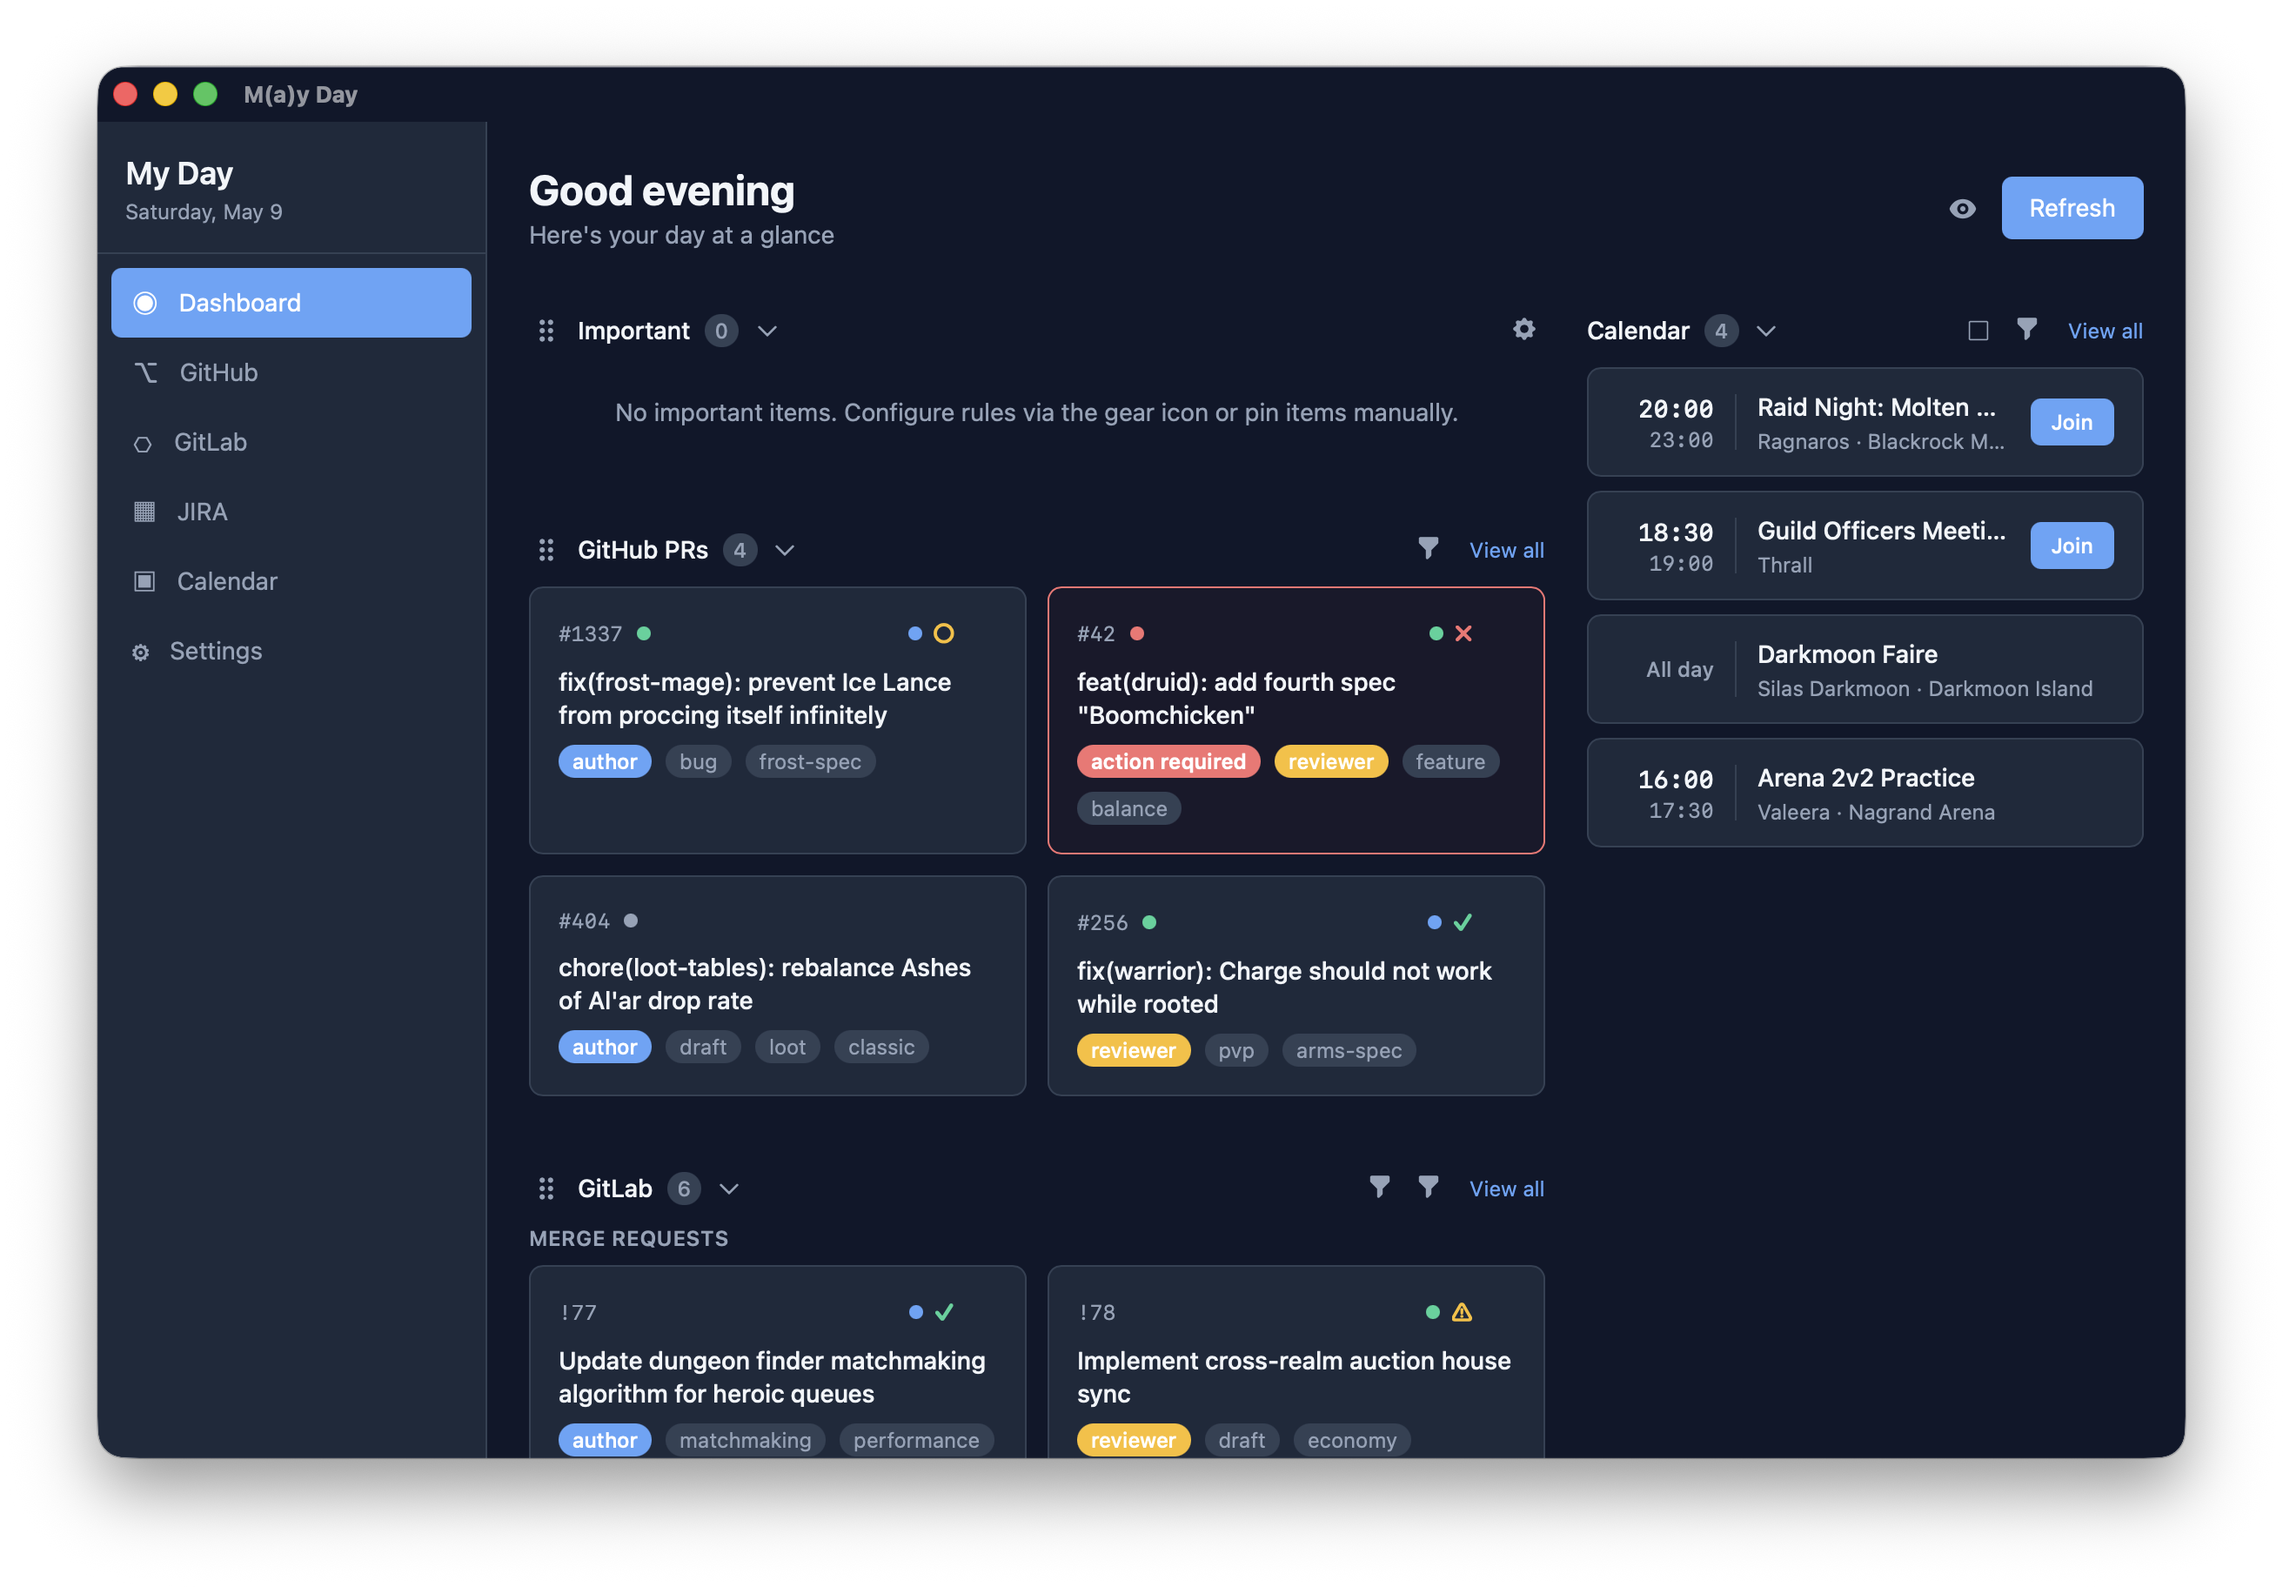
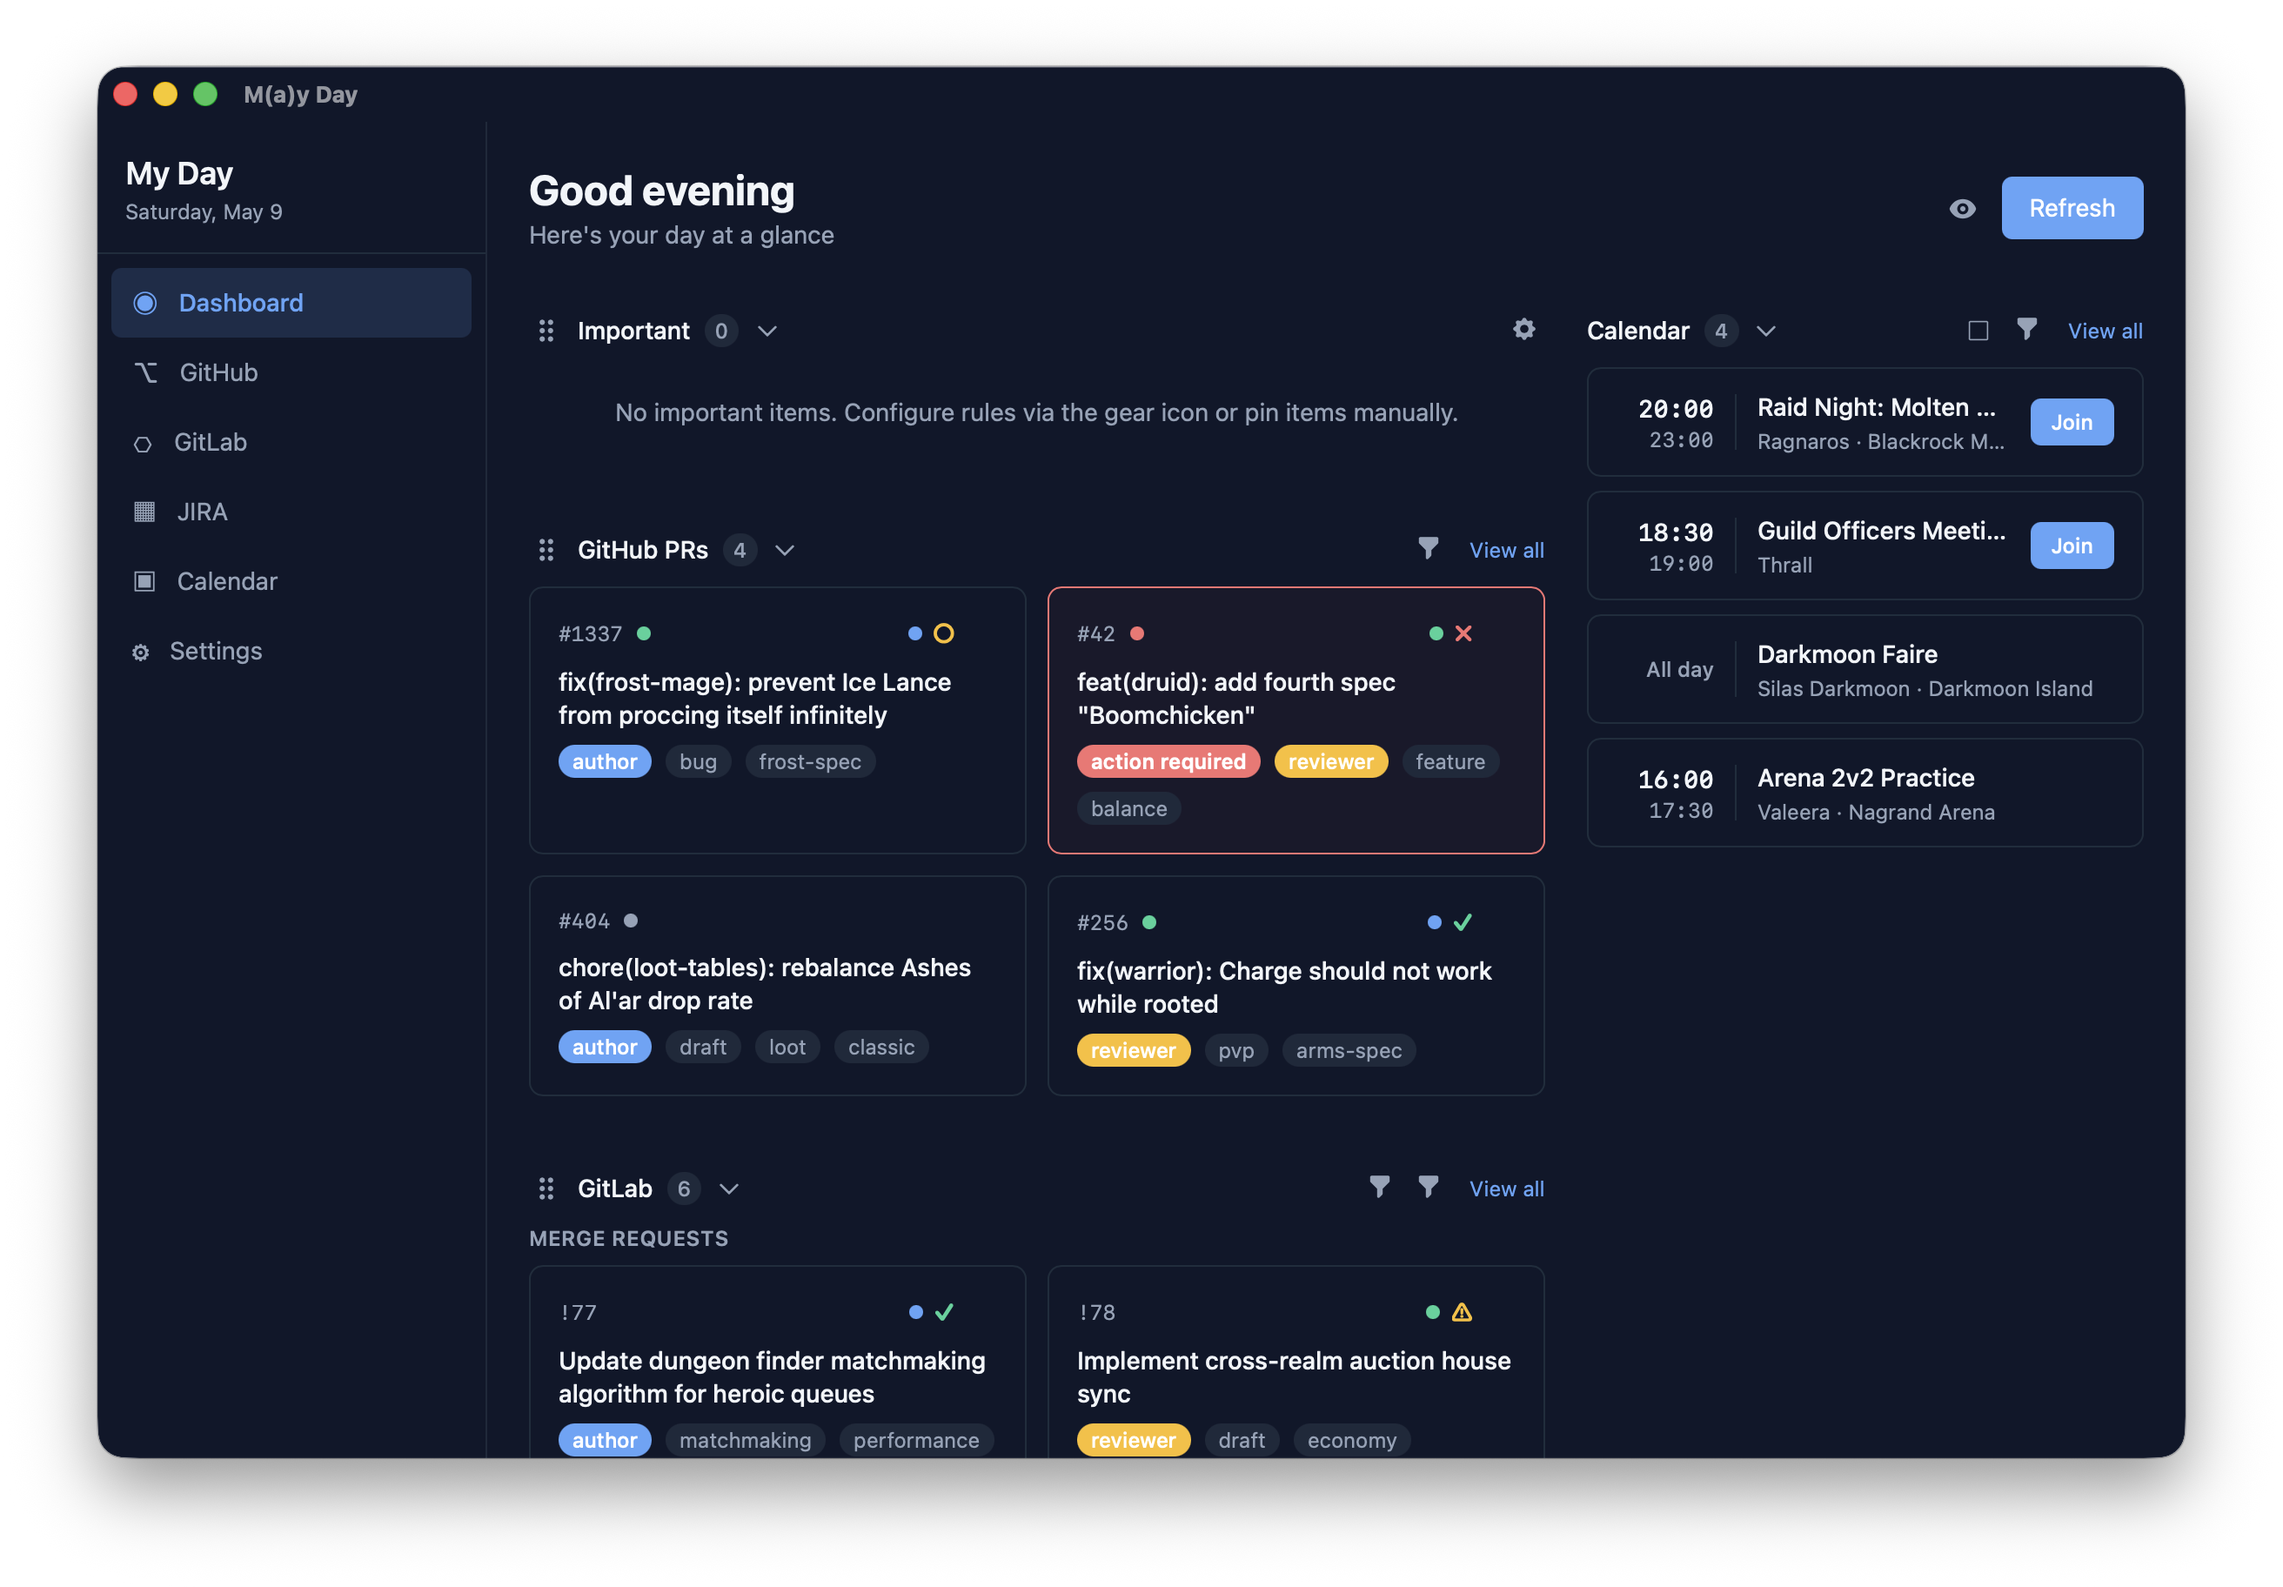
update darktheme & add for fun theme
- ensure dark theme also sets the title bar
- update styling for dark theme to have navbar not look
  as out of place.
- add win98 style for fun as an experiment

diff --git a/apps/web/src/assets/main.css b/apps/web/src/assets/main.css
@@ -16,14 +16,15 @@
   --color-success: #10b981;
   --color-warning: #f59e0b;
   --color-error: #ef4444;
+  --color-sidebar-border: #e2e8f0;
 }
 
 /* Dark theme */
 [data-theme="dark"] {
   --color-background: #0f172a;
-  --color-surface: #1e293b;
-  --color-surface-hover: #334155;
-  --color-border: #334155;
+  --color-surface: #0f172a;
+  --color-surface-hover: #1e293b;
+  --color-border: #1e2d3d;
   --color-text: #f1f5f9;
   --color-text-muted: #94a3b8;
   --color-primary: #60a5fa;
@@ -31,15 +32,16 @@
   --color-success: #34d399;
   --color-warning: #fbbf24;
   --color-error: #f87171;
+  --color-sidebar-border: #1e293b;
 }
 
 /* System theme: follow OS preference */
 @media (prefers-color-scheme: dark) {
   [data-theme="system"] {
     --color-background: #0f172a;
-    --color-surface: #1e293b;
-    --color-surface-hover: #334155;
-    --color-border: #334155;
+    --color-surface: #0f172a;
+    --color-surface-hover: #1e293b;
+    --color-border: #1e2d3d;
     --color-text: #f1f5f9;
     --color-text-muted: #94a3b8;
     --color-primary: #60a5fa;
@@ -47,6 +49,7 @@
     --color-success: #34d399;
     --color-warning: #fbbf24;
     --color-error: #f87171;
+    --color-sidebar-border: #1e293b;
   }
 }
 
@@ -61,4 +64,106 @@ body {
   font-family: -apple-system, BlinkMacSystemFont, 'Segoe UI', Roboto,
     'Helvetica Neue', Arial, sans-serif;
   transition: background-color 0.2s, color 0.2s;
+}
+
+/* ─── Windows 98 Theme ─────────────────────────────────────────────────────── */
+
+[data-theme="win98"] {
+  --color-background: #c0c0c0;
+  --color-surface: #c0c0c0;
+  --color-surface-hover: #d4d0c8;
+  --color-border: #808080;
+  --color-text: #000000;
+  --color-text-muted: #404040;
+  --color-primary: #000080;
+  --color-primary-hover: #0000a8;
+  --color-success: #008000;
+  --color-warning: #808000;
+  --color-error: #ff0000;
+  --color-sidebar-border: #808080;
+
+  /* Win98-specific tokens */
+  --win98-highlight: #ffffff;
+  --win98-shadow: #808080;
+  --win98-dark-shadow: #404040;
+  --win98-face: #c0c0c0;
+}
+
+[data-theme="win98"] body {
+  font-family: 'Pixelated MS Sans Serif', 'MS Sans Serif', 'Tahoma', 'Arial', sans-serif;
+  font-size: 13px;
+  -webkit-font-smoothing: none;
+}
+
+/* Classic raised 3D panel look for surfaces */
+[data-theme="win98"] section,
+[data-theme="win98"] aside {
+  border: none !important;
+  border-radius: 0 !important;
+  box-shadow:
+    inset -1px -1px 0 var(--win98-dark-shadow),
+    inset 1px 1px 0 var(--win98-highlight),
+    inset -2px -2px 0 var(--win98-shadow),
+    inset 2px 2px 0 var(--win98-face);
+}
+
+/* Sunken inset look for inputs and selects */
+[data-theme="win98"] input,
+[data-theme="win98"] select,
+[data-theme="win98"] textarea {
+  border-radius: 0 !important;
+  border: none !important;
+  background-color: #ffffff !important;
+  box-shadow:
+    inset -1px -1px 0 var(--win98-highlight),
+    inset 1px 1px 0 var(--win98-dark-shadow),
+    inset -2px -2px 0 var(--win98-face),
+    inset 2px 2px 0 var(--win98-shadow);
+  padding: 2px 4px !important;
+}
+
+/* Classic raised button */
+[data-theme="win98"] button {
+  border-radius: 0 !important;
+  border: none !important;
+  background-color: var(--win98-face) !important;
+  color: #000000 !important;
+  box-shadow:
+    inset -1px -1px 0 var(--win98-dark-shadow),
+    inset 1px 1px 0 var(--win98-highlight),
+    inset -2px -2px 0 var(--win98-shadow),
+    inset 2px 2px 0 var(--win98-face);
+  padding: 4px 16px !important;
+  font-family: inherit;
+}
+
+[data-theme="win98"] button:active {
+  box-shadow:
+    inset -1px -1px 0 var(--win98-highlight),
+    inset 1px 1px 0 var(--win98-dark-shadow),
+    inset -2px -2px 0 var(--win98-face),
+    inset 2px 2px 0 var(--win98-shadow);
+}
+
+/* Active nav: classic selection highlight */
+[data-theme="win98"] a {
+  border-radius: 0 !important;
+}
+
+/* Remove rounded corners from cards */
+[data-theme="win98"] [class*="rounded"] {
+  border-radius: 0 !important;
+}
+
+/* Section headers look like title bars */
+[data-theme="win98"] h1,
+[data-theme="win98"] h2 {
+  font-weight: bold;
+  font-size: 13px;
+}
+
+/* Active sidebar item: classic navy title bar with white text */
+[data-theme="win98"] .nav-active {
+  background: linear-gradient(90deg, #000080, #1084d0) !important;
+  color: #ffffff !important;
 }

diff --git a/apps/web/src/components/AppLayout.vue b/apps/web/src/components/AppLayout.vue
@@ -23,7 +23,7 @@ function isActive(path: string): boolean {
 <template>
   <div class="flex h-screen">
     <!-- Sidebar -->
-    <aside class="w-56 border-r border-[var(--color-border)] bg-[var(--color-surface)] flex flex-col">
+    <aside class="w-56 border-r border-[var(--color-sidebar-border)] bg-[var(--color-surface)] flex flex-col">
       <div class="p-4 border-b border-[var(--color-border)]">
         <h1 class="text-lg font-semibold">My Day</h1>
         <p class="text-xs text-[var(--color-text-muted)]">{{ new Date().toLocaleDateString('en-US', { weekday: 'long', month: 'short', day: 'numeric' }) }}</p>
@@ -34,7 +34,7 @@ function isActive(path: string): boolean {
           :key="item.path"
           :to="item.path"
           class="flex items-center gap-3 px-3 py-2 rounded-md text-sm transition-colors"
-          :class="isActive(item.path) ? 'bg-[var(--color-primary)] text-white' : 'text-[var(--color-text-muted)] hover:bg-[var(--color-surface-hover)] hover:text-[var(--color-text)]'"
+          :class="isActive(item.path) ? 'nav-active bg-[var(--color-primary)]/15 text-[var(--color-primary)] font-medium' : 'text-[var(--color-text-muted)] hover:bg-[var(--color-surface-hover)] hover:text-[var(--color-text)]'"
         >
           <span class="text-base">{{ item.icon }}</span>
           <span>{{ item.label }}</span>

diff --git a/apps/web/src/composables/useTheme.ts b/apps/web/src/composables/useTheme.ts
@@ -4,7 +4,7 @@ import { ref, watch } from 'vue'
 
 const STORAGE_KEY = 'myday-theme'
 
-type Theme = 'light' | 'dark' | 'system'
+type Theme = 'light' | 'dark' | 'system' | 'win98'
 
 const currentTheme = ref<Theme>(
   (localStorage.getItem(STORAGE_KEY) as Theme) || 'system'
@@ -12,6 +12,14 @@ const currentTheme = ref<Theme>(
 
 function applyTheme(theme: Theme) {
   document.documentElement.setAttribute('data-theme', theme)
+
+  // Sync native title bar appearance with the selected theme in Tauri
+  if ((window as any).__TAURI_INTERNALS__) {
+    import('@tauri-apps/api/webviewWindow').then(({ getCurrentWebviewWindow }) => {
+      const tauriTheme = theme === 'system' ? null : theme === 'dark' ? 'dark' : 'light'
+      getCurrentWebviewWindow().setTheme(tauriTheme)
+    }).catch(() => {})
+  }
 }
 
 // Apply immediately on module load

diff --git a/apps/web/src/pages/SettingsPage.vue b/apps/web/src/pages/SettingsPage.vue
@@ -169,7 +169,7 @@ function onAuthSuccess(msg: string) {
 
 // Apply theme immediately when changed in the select
 watch(() => config.value.general.theme, (newTheme) => {
-  setTheme(newTheme as 'light' | 'dark' | 'system')
+  setTheme(newTheme as 'light' | 'dark' | 'system' | 'win98')
 })
 </script>
 
@@ -195,6 +195,7 @@ watch(() => config.value.general.theme, (newTheme) => {
               <option value="light">Light</option>
               <option value="dark">Dark</option>
               <option value="system">System</option>
+              <option value="win98">Windows 98</option>
             </select>
           </label>
           <label class="flex items-center gap-2 text-sm text-[var(--color-text)]">
